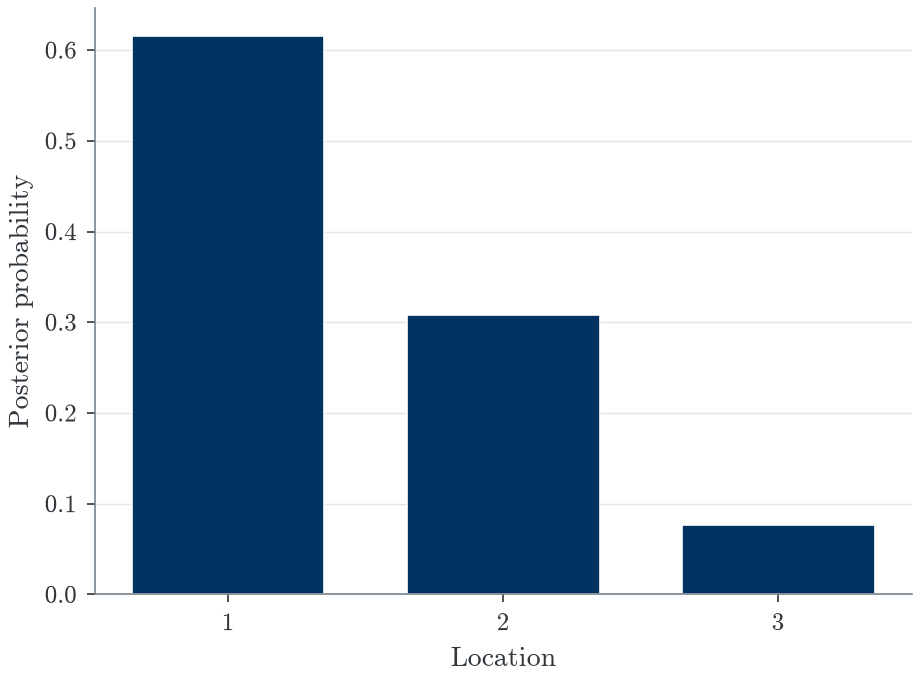
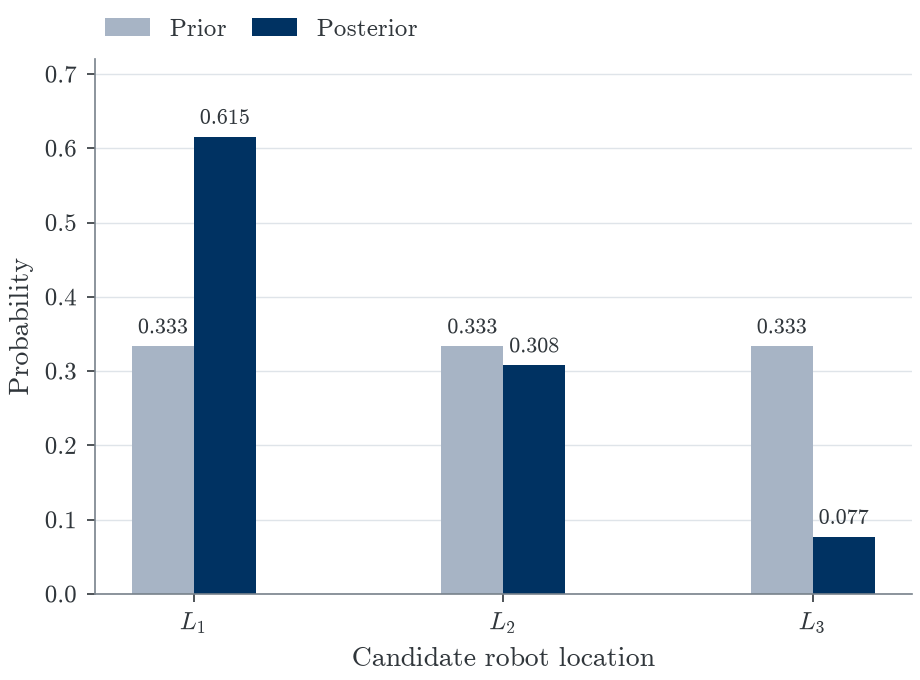
Finalize Chapter 2 prior-posterior figure and notebook

diff --git a/robotics_book/chapter_examples.py b/robotics_book/chapter_examples.py
@@ -167,7 +167,7 @@ def run_example(topic, root=None):
     fig, ax = plt.subplots(figsize=(width, 3.4), layout='constrained')
     colors = ['#003262', '#B17A00', '#247C86']
     categories = {
-        'bayes-theorem': ['1', '2', '3'],
+        'bayes-theorem': [r'$L_1$', r'$L_2$', r'$L_3$'],
         'real-time-bayesian-systems': ['Sensing', 'Computation', 'Reporting'],
         'extended-kalman-filter': [r'$x$', r'$y$', 'Heading'],
         'probabilistic-robotics': ['Safe', 'Damaged'],
@@ -226,8 +226,6 @@ def run_example(topic, root=None):
         ax.set_ylim(0, 0.72)
     
     elif categorical and topic != 'real-time-bayesian-systems':
-
-    if categorical and topic != 'real-time-bayesian-systems':
         rows = np.atleast_2d(display_y)
         bar_width = 0.4 / len(rows)
         for i, row in enumerate(rows):
